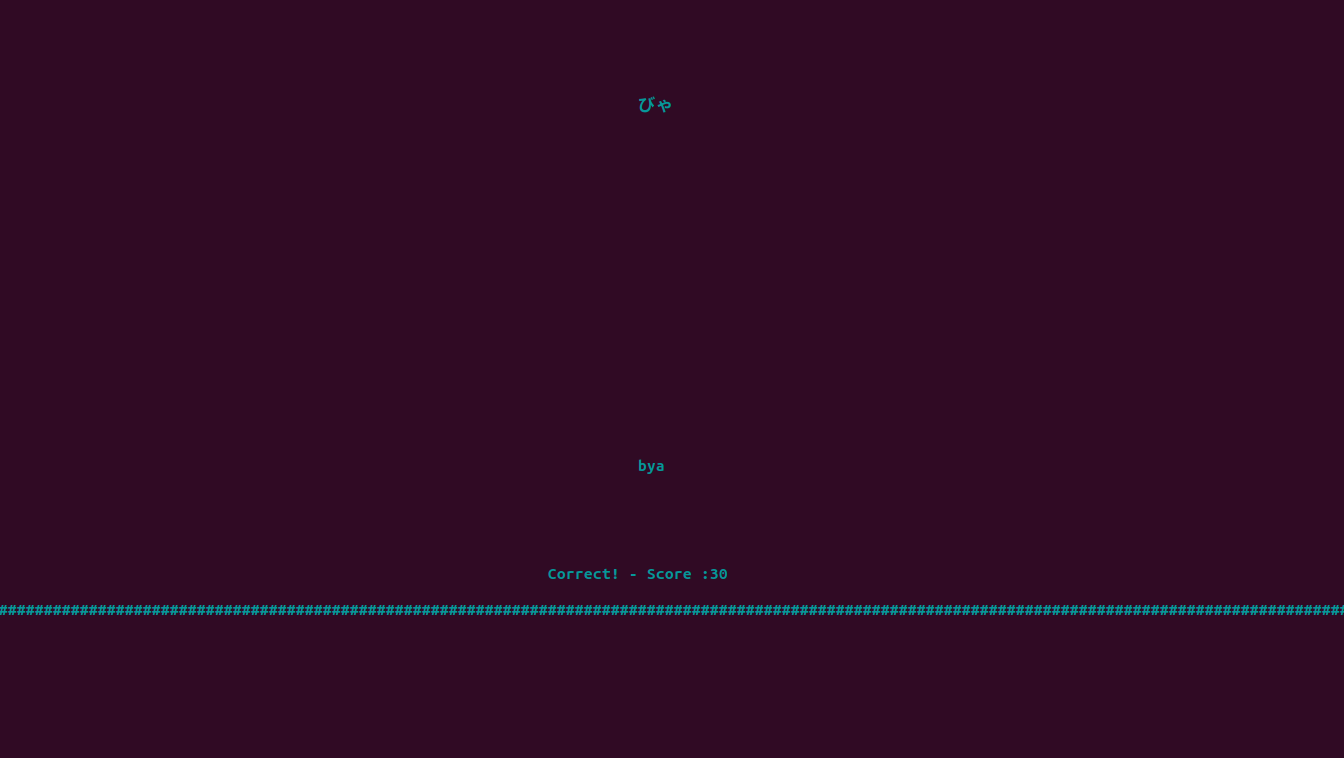
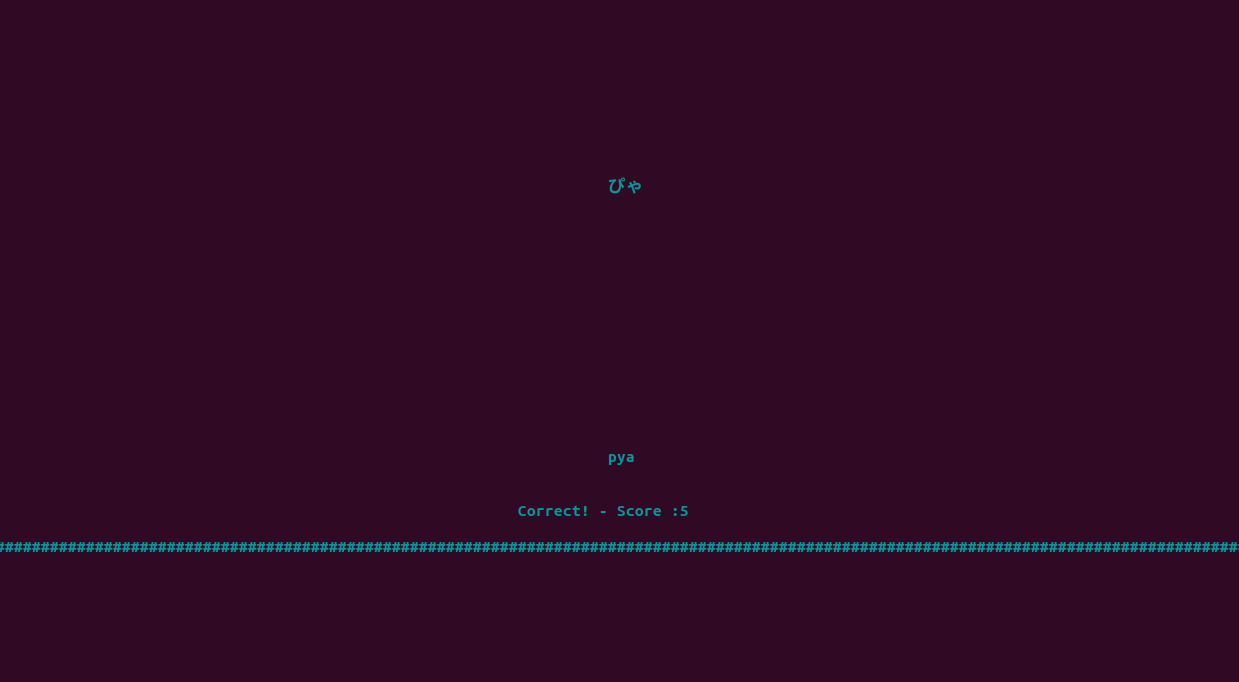
interface and controller update

diff --git a/src/main.c b/src/main.c
@@ -50,18 +50,18 @@ void katakanaTest(){
 	       //printConsole(str);
 	       //gotoxy(400,20);
 	       printf("%s",str);
-	       gotoxy(100,40);
+	       gotoxy(100,35);
 	       scanf("%s", ans);
                fgets(str,SIZE,fp);
                if(mystrcmp(strcat(ans,"\n"),str)==0){
                     score += 5;
-		    printf("\n \n \n \n \n \t \t \t \t \t \t \t                                 Correct! - Score :%d\n",score);
+		    printf("\n \n \n \t \t \t \t \t \t \t                                 Correct! - Score :%d\n",score);
                     printf("\n###########################################################################################################################################################################################################\n");
 		    sleep(1);
 		    system("clear");
                }else{
                     score -= 5;
-		    printf("\n \n \n \n \n          \t \t \t \t \t \t \t                          Incorrect! - Score : %d\n",score);
+		    printf("\n \n \n          \t \t \t \t \t \t \t                          Incorrect! - Score : %d\n",score);
                     printf("\n###########################################################################################################################################################################################################\n");
 		    sleep(2);
 		    system("clear");
@@ -98,18 +98,18 @@ void hiraganaTest(){
                //printConsole(str);
                //gotoxy(400,20);
                printf("%s",str);
-               gotoxy(100,40);
+               gotoxy(100,35);
                scanf("%s", ans);
 	       fgets(str,SIZE,fp);
                if(mystrcmp(strcat(ans,"\n"),str)==0){
                     score += 5;
-                    printf("\n\n\n\n\n \t \t \t \t \t \t \t                                 Correct! - Score :%d\n",score);
+                    printf("\n \n \t \t \t \t \t \t \t                                 Correct! - Score :%d\n",score);
 		    printf("\n###########################################################################################################################################################################################################\n");
 		    sleep(1);
 		    system("clear");
                }else{
                     score -= 5;
-                    printf("\n\n\n\n\n          \t \t \t \t \t \t \t                          Incorrect! - Score : %d\n",score);
+                    printf("\n \n          \t \t \t \t \t \t \t                          Incorrect! - Score : %d\n",score);
 		    printf("\n###########################################################################################################################################################################################################\n");
                	    sleep(2);
 		    system("clear");	
